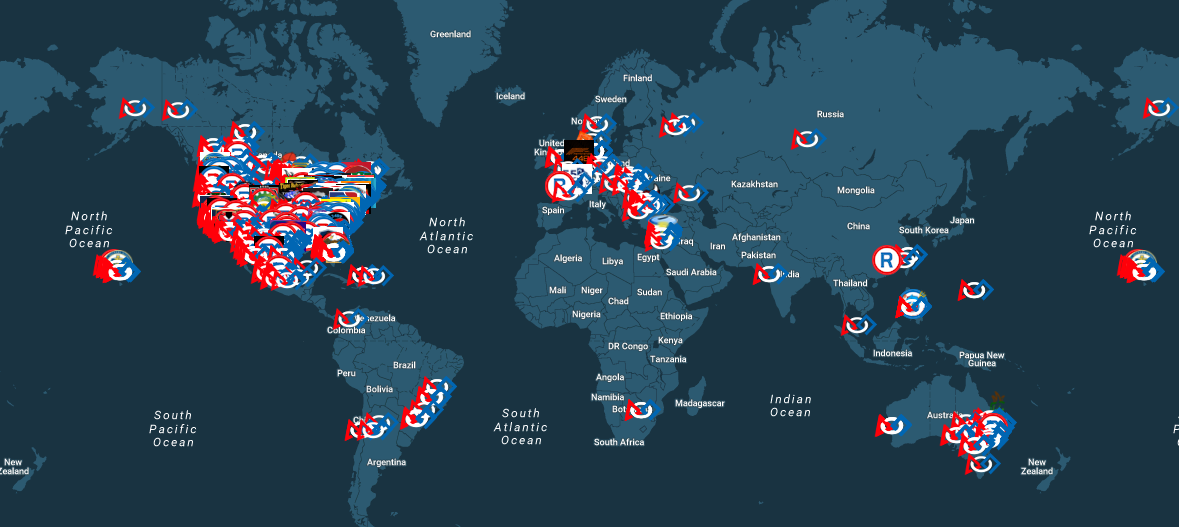
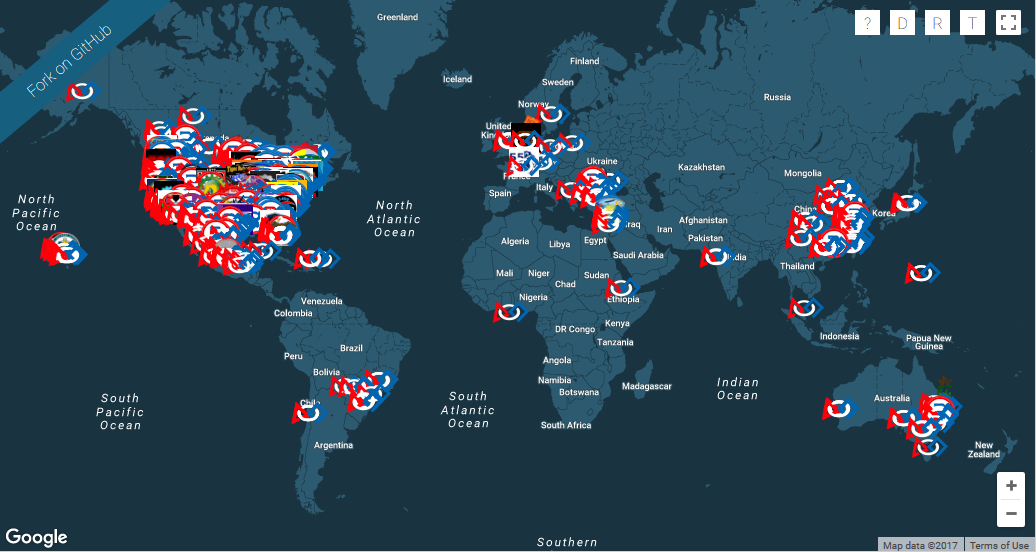
About+help (#112)
* Update teamInfo.js

Fresh scrape of TBA: 38 returning veteran teams, 1 departing veteran team, 8 new rookies plus lots of minor changes

* Update competitions.js

Update from TBA.  No new competitions, but added comments at top of file.

* Delete teams.js

No longer needed

* Update overrides.js

Added override locations for five LA & MS teams.

* Update index.html

Creating button for about & help

* Fresh data pull from TBA

Added three teams

* Updated index.html

Added normally hidden div#about with GUI instructions and various credits

* updated scripts.js and style.css

Go along with changes to index.htm to style new div#about and make it appear/disappear

* Add files via upload

Screenshot updates for new ? menu item

* Fix to team 4661

Due to an extraneous entry in geo_cache, team 4661 wound up in the Gulf of Guinea (lat=0, lon=0) instead of Israel

diff --git a/index.html b/index.html
@@ -12,12 +12,61 @@
     <div id="map"></div>
 
     <div id='toggles'>
-        <div id='team_toggle' onclick="toggleMarkers('teams')">T</div>
-        <div id='regional_toggle' onclick="toggleMarkers('regionals')">R</div>
-        <div id='district_toggle' onclick="toggleMarkers('districts')">D</div>
+        <div id='team_toggle' onclick="toggleMarkers('teams')"
+             title="Toggle Team Markers">T</div>
+        <div id='regional_toggle' onclick="toggleMarkers('regionals')"
+             title="Toggle Regional Markers">R</div>
+        <div id='district_toggle' onclick="toggleMarkers('districts')"
+             title="Toggle District Markers">D</div>
+        <div id="icon" title="View help and credits" onclick="openAbout()">?</div>
     </div>
 
-    <a href="https://github.com/FIRSTmap/firstmap.github.io" class="github-banner" target="_blank">Fork on GitHub</a>
+    <div id='about' style="display:none">
+        <div class="stripe">
+            <div>
+                FIRSTmap Help &amp; Credits
+                <button class="close" onclick="closeAbout()">X</button>
+            </div>
+        </div>
+
+        <div id="control_box">
+           <h1>Controls</h1>
+	   <dl id="controls">
+              <dt>D R T</dt>
+              <dd>Toggle <img src="resources/district.png"/> District
+                  <img src="resources/regional.png"/> Regional
+                  <img src="resources/marker.png"/> Team Markers on/off"</dd>
+              <dt>?</dt>
+              <dd>View Help and Credits</dd>
+              <dt>+/-</dt>
+              <dd>Zoom into/out of map at window center</dd>
+              <dt>Scroll</dt>
+              <dd>Zoom into/out of map at mouse location</dd>
+              <dt>Fork</dt>
+              <dd>Contribute your team&#39;s logo or location or more on github</dd>
+           </dl>
+        </div>
+
+<div style="clear: both">&nbsp;</div>
+
+        <div id="tool_box">
+           <h1>Developed by <a href="https://www.github.com/FIRSTMap/firstmap.github.io/graphs/contributors">over 30 Contributors</a> using:</h1>
+   	   <dl id="tools">
+              <dt><a href="http://maps.github.com/">GitHub</a></dt>
+              <dd>Collaboration tools and Web Hosting</dd>
+              <dt><a href="http://maps.google.com/">Google Maps</a></dt>
+              <dd>Map interface and some team locations</dd>
+              <dt><a href="https://thebluealliance.com/">The Blue Alliance</a></dt>
+              <dd>FRC Team and competition info"</dd>
+              <dt><a href="http://www.geonames.org/">GeoNames</a></dt>
+              <dd>Datases for many team locations</dd>
+           </dl>
+        </div>
+    </div>
+
+    <a href="https://github.com/FIRSTmap/firstmap.github.io"
+       class="github-banner" target="_blank"
+       title="Add a team logo or&#010;lock down its location">Fork on GitHub</a>
 
     <!-- Javascript Scripts -->
     <script src="data/teamInfo.js"></script>
@@ -28,3 +77,4 @@
 </body>
 
 </html>
+

diff --git a/data/teamInfo.js b/data/teamInfo.js
@@ -1,4 +1,4 @@
-// Data extracted from thebluealliance.com at 2017-10-14T11:38:26+00:00
+// Data extracted from thebluealliance.com at 2017-10-16T03:27:06+00:00
 // Built by scraper at https://github/GeeII/Firstmap-scraper/
 // using postal and gazeteer databases from GeoNames.org.
 
@@ -10184,6 +10184,16 @@ var teamInfo=[
         location: "Birmingham, Michigan 48009, USA"
     },
     {
+     team_number: 2961,
+     rookie_year: 2009,
+             lat: 38.912,
+             lng: -77.018,
+         website: "http://www.firstinspires.org/",
+        nickname: "Crimson Tide Engineers",
+           motto: "free your mind and success will follow",
+        location: "Washington, District of Columbia 20001, USA"
+    },
+    {
      team_number: 2964,
      rookie_year: 2009,
              lat: 38.860,
@@ -16834,6 +16844,16 @@ var teamInfo=[
         location: "Ramat Hasharon, Tel-Aviv 00000, Israel"
     },
     {
+     team_number: 4418,
+     rookie_year: 2012,
+             lat: 39.540,
+             lng: -105.011,
+         website: "http://frc4418.org/",
+        nickname: "Team IMPULSE",
+           motto: "Propelled to Success",
+        location: "Highlands Ranch, Colorado 80129, USA"
+    },
+    {
      team_number: 4450,
      rookie_year: 2013,
              lat: 47.013,
@@ -18046,8 +18066,8 @@ var teamInfo=[
     {
      team_number: 4661,
      rookie_year: 2013,
-             lat: 0.000,
-             lng: 0.000,
+             lat: 31.888,
+             lng: 34.905,
          website: "http://www.firstinspires.org/",
         nickname: "The Red Pirates",
            motto: "",
@@ -32472,6 +32492,16 @@ var teamInfo=[
         nickname: "WestTech Sentinels",
            motto: "",
         location: ",  30909, "
+    },
+    {
+     team_number: 7077,
+     rookie_year: 2018,
+             lat: 36.173,
+             lng: -115.067,
+         website: "http:///eldoradohs.org",
+        nickname: "0352 Sun Devils Fire",
+           motto: "",
+        location: ",  89110, "
     }
 ]
-var geonames = 3197
+var geonames = 3200

diff --git a/resources/style.css b/resources/style.css
@@ -32,8 +32,6 @@ h1 {
     font-size: 22px;
     font-weight: 400;
     text-align: center;
-    margin-bottom: 10px;
-    text-decoration: underline;
     color: #333;
 }
 p {
@@ -66,8 +64,8 @@ a:hover {
     position: fixed;
     top: 10px;
     right: 50px;
-    height: 25px;
-    width: 105px;
+    height: 40px;
+    width: 250px;
 }
 #toggles > div {
     height: 25px;
@@ -76,7 +74,81 @@ a:hover {
     background-color: white;
     float: right;
     margin-left: 10px;
+    margin-bottom: 10px;
     text-align: center;
     padding-top: 3px;
     cursor: default
+}
+#about {
+    position: absolute;
+    top: 44px;
+    right: 15px;
+    width: 500px;
+    height: 300px;
+    background: #CCC;
+    text-color: black;
+    margin-left: 10px;
+    text-align: center;
+    cursor: default
+    font-size: small;
+}
+.close {
+     float: right;
+     text-align: right;
+     padding-left: 6px;
+     padding-right: 6px;
+     padding-bottom: 1px;
+     padding-top: 1px
+}
+.stripe {
+    background: #175f7e;
+    color: white;
+    font-weight: bold;
+    margin: 0px;
+    top: 0px;
+    padding: 6px
+}
+#about div {
+   width: 100%;
+   margin: 0px;
+   padding: 0px;
+}
+
+#about div dl {
+   width: 100%;
+   background: #404040;
+   font-size: 14px;
+}
+dl#controls dt {
+   width: 15%; 
+   float: left;
+   clear: both;
+   text-align: right;
+   font-weight: bold;
+}
+dl#controls dd {
+   width: 83%;
+   float: right;
+   text-align: left;
+}
+dl#tools dt {
+   width: 30%; 
+   float: left;
+   clear: both;
+   text-align: right;
+   font-weight: bold;
+}
+dl#tools dd {
+   width: 68%;
+   float: right;
+   text-align: left;
+}
+#about div#tool_box h1: {
+   padding-top: 15px;
+}
+#about div h1: {
+   padding-top: 15px;
+   width: 100%;
+   clear: both;
+   text-decoration: none;
 }

diff --git a/resources/scripts.js b/resources/scripts.js
@@ -344,3 +344,11 @@ function addKeyboardListener() {
         }
     })
 }
+
+function openAbout() {
+   document.getElementById('about').style.display='inline-block'
+}
+
+function closeAbout() {
+   document.getElementById('about').style.display='none'
+}
